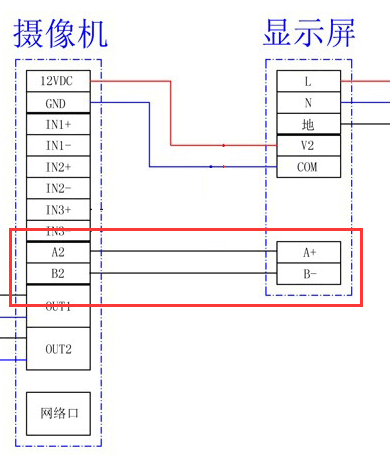
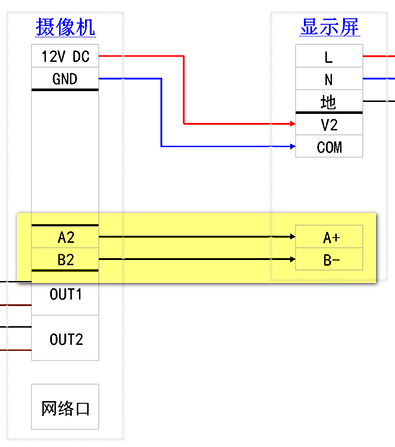
08030

Changed region(s): [[0.0, 0.0291, 1.0, 0.9888]]

diff --git a/车牌识别一体机安装调试指南/车牌识别一体机安装调试指南.html b/车牌识别一体机安装调试指南/车牌识别一体机安装调试指南.html
@@ -5,7 +5,7 @@
     <meta http-equiv="pragma" content="no-cache" />
     <meta http-equiv="cache-control" content="no-cache" />
     <meta http-equiv="expires" content="0" />
-    <title>130万像素摄像机安装调试指南</title>
+    <title>车牌识别一体机安装调试指南</title>
     <link href="../css/css/font-awesome.css" rel="stylesheet" media="screen">
     <link rel='stylesheet' id='jquery-gif-css' href='../css/jquery.gif.css' type='text/css' media='all'/>
     <link rel="stylesheet" type="text/css" href="../css/style.css">
@@ -14,7 +14,7 @@
     <script src="../js/imgload_gifload.js"></script>    
 </head>
 <body>
-<p class="title">130万像素摄像机安装调试指南</p>
+<p class="title">车牌识别一体机安装调试指南</p>
 <h3>1.选择安装位置和安装高度</h3>
 <pre>
     摄像机安装在道闸主机前靠近车道的一侧安全岛为佳,以摄像机不伸出安全岛和紧靠道闸主机但不影响道闸使用为原则,如图示意:
@@ -24,10 +24,15 @@
     <span class="note">小提示:车道长度不足的情况,摄像机可置于道闸后方.</span>
 </pre>
 <h3>2.连接设备</h3>
+<h4>2.1 130万像素</h4>
 <pre>
-    下图为接线板示例图,详见接口说明表.
-    <img width="100%" dataOrigin="img/单排端子.png">    <p class="explain">单排接线端子</p>
-    <img width="100%" dataOrigin="img/双排端子.png">    <p class="explain">双排接线端子</p>
+    下图为接口示例图,具体接口请以实物盖板上的接口示意图为准.
+    <img width="100%" dataOrigin="img/单排端子.png">    <p class="explain">单排相机接口</p>
+    <img width="100%" dataOrigin="img/双排端子.png">    <p class="explain">双排相机接口</p>
+</pre>
+<h4>2.2 200万像素</h4>
+<pre>
+    <img width="100%" dataOrigin="img/200w端子.png">    <p class="explain">200W相机接口</p>
 </pre>
 <h3>3.调节车辆成像角度</h3>
 <pre>
@@ -38,17 +43,18 @@
 </pre>
 <h3>4.调整车牌成像尺寸及聚焦</h3>
 <pre>
-    在网页"安装引导"页进行调节,引导页视频图像上已给出一个推荐的车牌尺寸,只需调节"变倍",配合"聚焦",使实际场景中的车牌尺寸尽量接近于推荐的车牌尺寸即可.
-    推荐的宽度:车牌在视频中的宽度在 120-200 个像素范围,或者占视频图像宽度的 1/10-1/7 之间.
+    在网页"安装引导"页进行调节,根据引导页视频图像上推荐的车牌尺寸,先调节"变倍",后"聚焦",使实际场景中的车牌尺寸尽量接近于推荐的车牌尺寸即可.
+    130W推荐的宽度:车牌在视频中的宽度在 140-160 像素范围.
+    200W推荐的宽度:车牌在视频中的宽度在 160-200 像素范围.
     <img width="100%" dataOrigin="img/安装引导.png">
     <img width="100%" dataOrigin="img/车牌过大过小.png">
-    <span class="note">小提示:先调变倍,再调聚焦,车牌过大会影响识别率.</span>
+    <span class="note">小提示:保证车牌摆成水平状态可以提高识别率,车牌过大会影响识别率.</span>
 </pre>
 <h3>5.配置识别区域和虚拟线圈</h3>
 <pre>
     视频流识别:识别的帧数越多,识别率越高.
     识别区域:在"安装引导"界面,可自定义识别区域,通过配置识别区域可屏蔽掉不必要的干扰.
-    虚拟线圈的位置配置:虚拟线圈控制了识别结果的触发时机,可自定义线圈位置,线圈需绘制在识别区域内部.
+    虚拟线圈的位置配置:虚拟线圈控制了识别结果的触发时机,可自定义线圈位置,线圈需绘制在识别区域内部,最佳保持在视频下三分之一处.
     <img width="100%" dataOrigin="img/识别区域.png">
     <img width="100%" dataOrigin="img/最优识别区域.png">
     <span class="note">小提示:最佳识别区域在视频图像的下半部分,车牌尺寸合适,且车辆由上至下驶入识别了较长距离（虚拟线圈多绘制于此）.</span>
@@ -58,16 +64,18 @@
     通过安装外置补光灯,可在夜间得到更好的成像质量和提高识别率.外置补光灯使用停车场专用白光 LED 补光灯,带光敏电阻自动开关功能,防水等级 IP65.
     <img width="100%" dataOrigin="img/补光灯安装效果.png">
     <img style="margin-bottom: -20px;" dataOrigin="img/补光灯错误安装.png">
-    错误提示:外置补光灯与一体机安装距离过近,两者的距离小于30cm,补光灯的光线会直接被车牌表面的反光涂层反射到镜头,导致车牌在视频图像中引起过曝,显得发白,影响最终的识别结果.
+    要点1:硬件参数要求,白色停车场专用LED补光灯,12~20W,聚光角度15~45度.
+    要点2:安装要求,优先推荐安装在触发区域之前的1~2米处,或者安装在固定一体机的立柱上,和一体机保持0.5-0.7米距离;
+    要点3:角度要求,外置补光灯的亮斑打在触发区域的车牌处.
 </pre>
 <h3>7.调整内置补光灯亮度</h3>
 <pre>
     在"安装引导"界面,可调节内置LED亮度等级.错误亮度等级,内置补光灯过亮,照成过曝情况,此时应该降低补光灯的亮度,如下:
     <img width="100%" dataOrigin="img/亮度等级.png">
-    <span class="note">小提示:内置亮度设为2-3级就行,对于识别距离超过6米的停车场,可提高亮度等级,不是车牌越亮越容易识别.</span>
+    <span class="note">小提示:内置亮度设为2-3级就行,对于识别距离超过6米的停车场,可提高亮度等级,不是车牌越亮越容易识别.在安装了外置补光灯的情况下可以适当降低内置补光灯亮度.</span>
 </pre>
 <h3>8.接通其它接口线路,满足典型应用需求</h3>
-<h4>8.1 单排端子整体结构</h4>
+<h4>8.1 130W单排端子整体结构</h4>
 <img dataOrigin="img/接口输入输出2.png">
 <br><br>
 <table border="1px" cellspacing="0px" align="center">
@@ -144,7 +152,7 @@
         </td>
     </tr>
 </table>
-<h4>8.2 双排端子整体结构</h4>
+<h4>8.2 130W双排端子整体结构</h4>
 <img dataOrigin="img/接口输入输出1.png">
 <br><br>
 <table border="1px" cellspacing="0px" align="center">
@@ -239,23 +247,115 @@
         <td>TF卡存储,最大支持128G</td>
     </tr>
 </table>
+<h4>8.3 200W端子整体结构</h4>
+<table border="1px" cellspacing="0px" align="center">
+    <caption style="background-color:darkseagreen">车牌识别一体机接口说明</caption>
+    <tr bgcolor="#a9a9a9">
+        <th>序号</th>
+        <th>功能</th>
+        <th>标识</th>
+        <th>说明</th>
+    </tr>
+    <tr>
+        <td>1</td>
+        <td>电源</td>
+        <td>12V<br>
+            GND
+        </td>
+        <td>支持9-15V</td>
+    </tr>
+    <tr>
+        <td>2</td>
+        <td>网络接口</td>
+        <td>RJ45</td>
+        <td>支持10/100Mbps</td>
+    </tr>
+    <tr>
+        <td>3</td>
+        <td>USB接口</td>
+        <td>USB</td>
+        <td>USB接口</td>
+    </tr>
+    <tr>
+        <td rowspan="2">4</td>
+        <td rowspan="2">IO接口</td>
+        <td>OUT1<br>
+            OUT2<br>
+            OUT3
+        </td>
+        <td>可用于道闸抬杆</td>
+    </tr>
+    <tr>
+        <td>IN1+/IN1-<br>
+            IN2+/IN2-<br>
+            GND
+        </td>
+        <td>可接地感线圈，用于外部信号触发抓图</td>
+    </tr>
+    <tr>
+        <td>5</td>
+        <td>AUDIO</td>
+        <td>GND<br>
+            OUT<br>
+            IN
+        </td>
+        <td>音频输入/输出</td>
+    </tr>
+    <tr>
+        <td>6</td>
+        <td>TTL5V</td>
+        <td>OUT</td>
+        <td>TTL信号输出</td>
+    </tr>
+    <tr>
+        <td>7</td>
+        <td>RS485</td>
+        <td>A1<br>
+            B1<br>
+            GND
+        </td>
+        <td>连接上位机，输出识别结果,协议参照"识别结果串口推送"</td>
+    </tr>
+    <tr>
+        <td>8</td>
+        <td>RS485/RS232</td>
+        <td>A2<br>
+            B2<br>
+            GND
+        </td>
+        <td>与 SDK 协作,实现双向透明通道
+        </td>
+    </tr>
+    <tr>
+        <td>9</td>
+        <td>重置</td>
+        <td>RESET</td>
+        <td>设备重启/设备复位</td>
+    </tr>
+    <tr>
+        <td>10</td>
+        <td>TF卡槽</td>
+        <td>TF CARD</td>
+        <td>TF卡存储,最大支持128G</td>
+    </tr>
+</table>
 <h4>8.3 典型应用场景</h4>
 <h5>(1)白名单直接抬杆放行</h5>
 <pre>
     白名单数据导入设备,开关量输出 1 接道闸,车牌识别触发后,在设备上白名单验证通过后直接抬杆放行.
-    请做如下配置:基本设置->输入输出->输出配置.
+    请做如下配置:基本设置->输出联动->输出配置.
     <img width="100%" dataOrigin="img/输出配置.png">
 </pre>
 <h5>(2)实际地感触发车牌识别</h5>
 <pre>
     开关量输入1接地感线圈.
-    请做如下配置:智能分析->基本配置->输出结果.
-    <img width="100%" dataOrigin="img/基本配置.png">
+    请做如下配置:安装引导->识别参数设置->输出类型.
+    <img  dataOrigin="img/基本配置.png">
 </pre>
 <h5>(3)RS485接口外接其它设备输出车牌识别信息</h5>
 <pre>
     车牌识别触发后,在设备上白名单验证通过后,通过RS485-1进行输出.
-    请做如下配置:基本设置->输入输出->输出配置.
+    请做如下配置:基本设置->输出联动->输出配置.
     <img dataOrigin="img/白名单验证通过.png">
     <span class="note">    注:出厂默认拨码开关485是1.2.5.6在on;若是要使用232,请将拨码开关3.4.7.8在on.</span>
     <img dataOrigin="img/电路板.png">
@@ -264,7 +364,7 @@
 <pre>
     请做如下配置:
     开关量输入2接地感线圈,地感线圈都支持开关量信号,通过地感线圈控制闪光灯,将闪关灯连接在尾线或接线板的开关量输出接口,同时配置车牌输出方式为外部输入2触发.
-    <img width="100%" dataOrigin="img/输入输出.png">  
+    <img dataOrigin="img/输入输出.png">  
     此时需要调节触发延迟时间,与闪光灯配合,使识别效果最佳.
     <img dataOrigin="img/触发延迟.png">
 </pre>

diff --git a/驱动板不通讯的可能性/驱动板不通讯的可能性.html b/驱动板不通讯的可能性/驱动板不通讯的可能性.html
@@ -10,26 +10,27 @@
     <link rel="stylesheet" type="text/css" href="../css/style.css">
     <script src="../js/jquery-2.1.1.min.js"></script>
     <script src="../js/jquery.gif.js"></script>
-    <script src="../js/imgload_gifload.js"></script>     
+    <script src="../js/imgload_gifload.js"></script>
     <title>驱动板不通讯的可能性</title>
 </head>
 <body>
 <p class="title">驱动板不通讯的可能性</p>
-<pre><span class="redBig">    驱动板不通讯是指显示屏上信息不会更新,也没有声音播报.
-    显示屏上信息会更新或者有声音的,都不属于不通讯的范围.</span>
+<pre><span class="redBig">    驱动板不通讯是指LED屏上信息不会更新,也没有声音播报.
+    LED屏上信息会更新或者有声音的,都不属于不通讯的范围.</span>
 </pre>
 <h3>1.摄像机的端子排插错位</h3>
 <pre>
     打开摄像机顶盖查看.
     <img dataOrigin="img/端子插错位.png">
-    上图所示端子排插错位了,现场人员一定要检查这里,我们已经被"坑"了不下十次.
+    上图所示为130万像素的相机,端子排插错位了.200万的相机插错的概率会低一些.
+    现场人员一定要检查这里,我们已经被"坑"了不下十次.
 </pre>
 <h3>2.语音输出道口编号不一致</h3>
 <pre>
     打开管理软件,在"车道设置",双击某条车道信息查看.
     <img dataOrigin="img/语音输出道口.png">
     道口编号是软件自动生成的,不要修改.
-    如上图,道口编号和语音输出道口号<span >必须一致</span>,除非你确定不一致的作用是什么.
+    如上图,道口编号和语音输出道口号<span>必须一致</span>,除非你确定不一致的作用是什么.
 </pre>
 <h3>3.摄像机与驱动板RS485连接不对</h3>
 <pre>
@@ -50,7 +51,7 @@
 <pre>
     检查电脑操作系统,若不是win7请更换到win7.
     目前我们发现软件在win10下运行时不能和驱动板通讯.
-    <span >一般情况下,现场所有的屏均不能通讯,很可能就是操作系统的原因造成的.</span>
+    <span>一般情况下,现场所有的屏均不能通讯,很可能就是操作系统的原因造成的.</span>
 </pre>
 <h3>6.RS485通讯线是网线的两芯</h3>
 <pre>
@@ -58,17 +59,33 @@
     <img dataOrigin="img/线材正确1.png">
     最低要求也是网线的四芯,如下图:
     <img dataOrigin="img/线材正确2.png">
-    <span >千万不要用网线的两芯做RS485的通讯线,如下图:</span>
+    <span>千万不要用网线的两芯做RS485的通讯线,如下图:</span>
     <img dataOrigin="img/线材错误.png">
 </pre>
-<h3>7.驱动板故障</h3>
+<h3>7.通讯线路受到强电干扰</h3>
 <pre>
-<img width="100%" dataOrigin="img/驱动板信号指示灯.png">
-检查驱动板上的指示灯.
-<span >重点关注驱动板上的D6和D7指示灯</span>,相机发送指令给驱动板时,这两个指示灯会闪烁.
-D5是运行指示灯,正常情况下间隔1秒闪烁一次.
-D4和D11正常情况下保持常亮.
-<span >最简单的办法就是对调进出口驱动板,排查是否驱动板故障引起的不通讯.</span>
+    典型案例1:
+    某现场RS485通讯线用的平行红黑线rvb2*0.75且和220V强电线捆绑在一起走线.
+    <img dataOrigin="img/通讯干扰1.png" width="50%">
+    然后每隔一两天LED屏显示内容会乱码,重启驱动板正常.
+    后来将这根通讯线换成带屏蔽层的通讯线,然后与强电分开走线解决.
+
+    典型案例2:
+    某现场反馈当LED屏待机时,屏幕不亮;当识别到车牌时,LED屏显示正常.
+    后来协助排查发现,施工人员将220V强电从驱动板下方的孔隙穿过,产生强电干扰.
+    将强电重新走线,扰开驱动板后问题解决.
+
+    所以通讯线路被干扰,会产生很多奇怪的问题,但是只要我们遵守强弱电分开走线的原则就可避免.
+</pre>
+<h3>8.驱动板故障</h3>
+<pre>
+    如上排除后,若发现都不能解决,可能是驱动板故障.
+    <img width="80%" dataOrigin="img/驱动板信号指示灯.png">
+    检查驱动板上的指示灯.
+    <span>重点关注驱动板上的D6和D7指示灯</span>,相机发送指令给驱动板时,这两个指示灯会闪烁.
+    D5是运行指示灯,正常情况下间隔1秒闪烁一次.
+    D4和D11正常情况下保持常亮.
+    <span>最简单的办法就是对调进出口驱动板,排查是否驱动板故障引起的不通讯.</span>
 </pre>
 </body>
 </html>

diff --git a/index.html b/index.html
@@ -49,7 +49,7 @@
                                 <a class="vip" href="./摄像机调试方法/摄像机调试方法.html">摄像机调试方法-经验分享</a>
                             </li>
                             <li>
-                                <a href="./车牌识别一体机安装调试指南/130W车牌识别一体机安装调试指南.html">130万像素摄像机安装调试指南</a>
+                                <a href="./车牌识别一体机安装调试指南/车牌识别一体机安装调试指南.html">车牌识别一体机安装调试指南</a>
                             </li>
                             <li>
                                 <a class="vip" href="./sixStep/sixStep.html">调试流程六步走 </a>
